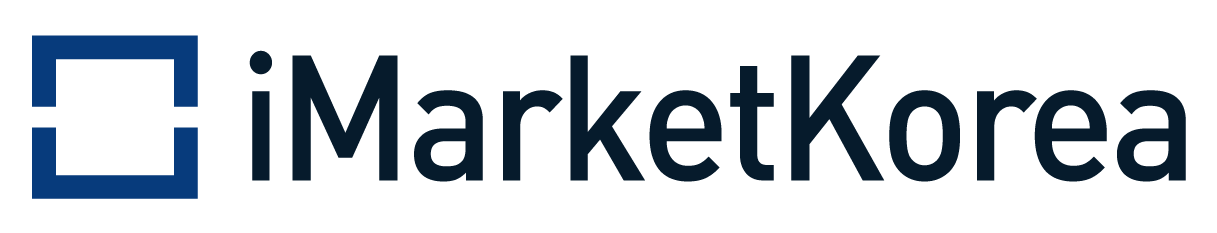
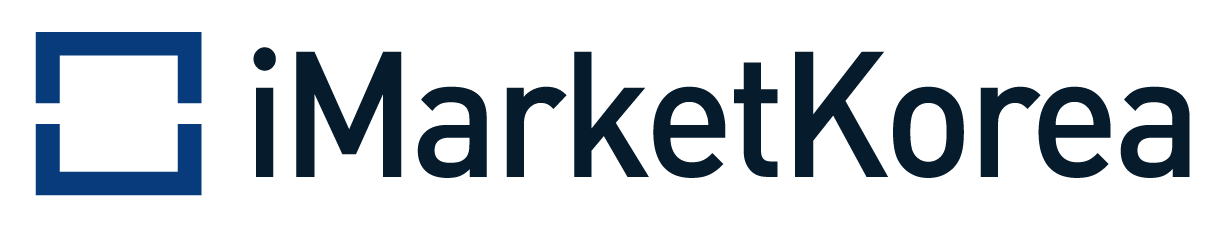
feat(partners): replace imarketkorea with transparent bg, add 동원건설산업
Claude-Session: https://claude.ai/code/session_017wK48fy2RUra2nDaqNRhXu

diff --git a/src/app/partners/page.tsx b/src/app/partners/page.tsx
@@ -12,7 +12,7 @@ const partners = [
   { name: "LG화학", group: "LG그룹", logo: null },
   { name: "코오롱글로벌(주)", group: "코오롱그룹", logo: null },
   { name: "(주) 티시스", group: "태광그룹", logo: "/partners/tsis.png" },
-  { name: "(주) 동원건설산업", group: "동원그룹", logo: null },
+  { name: "(주) 동원건설산업", group: "동원그룹", logo: "/partners/dongwon.png" },
   { name: "(주) 아이마켓코리아", group: null, logo: "/partners/imarketkorea.png" },
   { name: "아벤종합건설(주)", group: "동아쏘시오그룹", logo: "/partners/aben.png" },
   { name: "(주) 벨이앤씨", group: "중근당그룹", logo: "/partners/bell.gif" },
